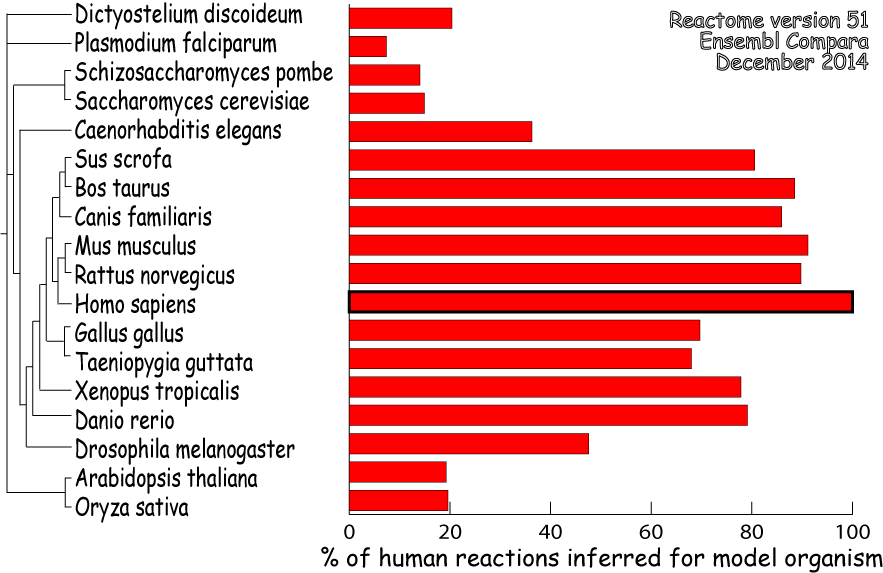
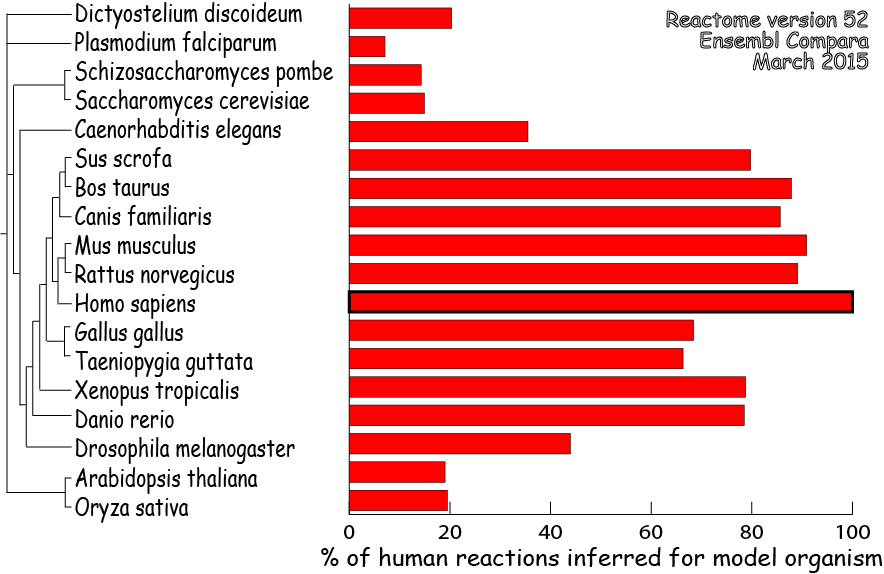
release 52 stats

diff --git a/scripts/release/website_files_update/stats.html b/scripts/release/website_files_update/stats.html
@@ -7,7 +7,7 @@
 
     <body>
 	<!--#include virtual="/cgi-bin/navigation_bar" -->
-	<h1 class="frontpage">Reactome Statistics (Version 51)</h1>
+	<h1 class="frontpage">Reactome Statistics (Version 52)</h1>
 	    
 	<!-- Start of the stats table  -->
 	<table border="0" width="90%" cellpadding="0" cellspacing="0" class="classbrowser">
@@ -23,152 +23,152 @@
 		    
 		    <tr height="18" class="own">
 			<td height="25" class="own">D. discoideum</td>
-			<td class="own" align="center">1640</td>
-			<td class="own" align="center">1302</td>
-			<td class="own" align="center">1423</td>
-			<td class="own" align="center">902</td>
+			<td class="own" align="center">1668</td>
+			<td class="own" align="center">1387</td>
+			<td class="own" align="center">1435</td>
+			<td class="own" align="center">826</td>
 		    </tr>
 		    
 		    <tr height="18" class="own">
 			<td height="25" class="own">P. falciparum</td>
-			<td class="own" align="center">605</td>
-			<td class="own" align="center">506</td>
-			<td class="own" align="center">516</td>
-			<td class="own" align="center">527</td>
+			<td class="own" align="center">622</td>
+			<td class="own" align="center">514</td>
+			<td class="own" align="center">500</td>
+			<td class="own" align="center">447</td>
 		    </tr>
 		    
 		    <tr height="18" class="own">
 			<td height="25" class="own">S. pombe</td>
-			<td class="own" align="center">1118</td>
-			<td class="own" align="center">950</td>
-			<td class="own" align="center">986</td>
-			<td class="own" align="center">750</td>
+			<td class="own" align="center">1149</td>
+			<td class="own" align="center">1039</td>
+			<td class="own" align="center">1016</td>
+			<td class="own" align="center">678</td>
 		    </tr>
 		    
 		    <tr height="18" class="own">
 			<td height="25" class="own">S. cerevisiae</td>
-			<td class="own" align="center">1245</td>
-			<td class="own" align="center">956</td>
-			<td class="own" align="center">1083</td>
-			<td class="own" align="center">766</td>
+			<td class="own" align="center">1271</td>
+			<td class="own" align="center">1039</td>
+			<td class="own" align="center">1092</td>
+			<td class="own" align="center">689</td>
 		    </tr>
 		    
 		    <tr height="18" class="own">
 			<td height="25" class="own">C. elegans</td>
-			<td class="own" align="center">3698</td>
-			<td class="own" align="center">2536</td>
-			<td class="own" align="center">2533</td>
-			<td class="own" align="center">1156</td>
+			<td class="own" align="center">3943</td>
+			<td class="own" align="center">2572</td>
+			<td class="own" align="center">2510</td>
+			<td class="own" align="center">1044</td>
 		    </tr>
 		    
 		    <tr height="18" class="own">
 			<td height="25" class="own">S. scrofa</td>
-			<td class="own" align="center">8224</td>
-			<td class="own" align="center">5820</td>
-			<td class="own" align="center">5623</td>
-			<td class="own" align="center">1506</td>
+			<td class="own" align="center">8521</td>
+			<td class="own" align="center">5958</td>
+			<td class="own" align="center">5642</td>
+			<td class="own" align="center">1389</td>
 		    </tr>
 		    
 		    <tr height="18" class="own">
 			<td height="25" class="own">B. taurus</td>
-			<td class="own" align="center">7845</td>
-			<td class="own" align="center">6401</td>
-			<td class="own" align="center">6204</td>
-			<td class="own" align="center">1537</td>
+			<td class="own" align="center">8000</td>
+			<td class="own" align="center">6565</td>
+			<td class="own" align="center">6240</td>
+			<td class="own" align="center">1421</td>
 		    </tr>
 		    
 		    <tr height="18" class="own">
 			<td height="25" class="own">C. familiaris</td>
-			<td class="own" align="center">8128</td>
-			<td class="own" align="center">6217</td>
-			<td class="own" align="center">6002</td>
-			<td class="own" align="center">1525</td>
+			<td class="own" align="center">8394</td>
+			<td class="own" align="center">6411</td>
+			<td class="own" align="center">6059</td>
+			<td class="own" align="center">1411</td>
 		    </tr>
 		    
 		    <tr height="18" class="own">
 			<td height="25" class="own">M. musculus</td>
-			<td class="own" align="center">8770</td>
-			<td class="own" align="center">6835</td>
-			<td class="own" align="center">6567</td>
-			<td class="own" align="center">1563</td>
+			<td class="own" align="center">8891</td>
+			<td class="own" align="center">7030</td>
+			<td class="own" align="center">6639</td>
+			<td class="own" align="center">1451</td>
 		    </tr>
 		    
 		    <tr height="18" class="own">
 			<td height="25" class="own">R. norvegicus</td>
-			<td class="own" align="center">8333</td>
-			<td class="own" align="center">6558</td>
-			<td class="own" align="center">6331</td>
-			<td class="own" align="center">1539</td>
+			<td class="own" align="center">8832</td>
+			<td class="own" align="center">6702</td>
+			<td class="own" align="center">6364</td>
+			<td class="own" align="center">1423</td>
 		    </tr>
 		    
 		    <tr height="18" class="own">
 			<td height="25" class="own">*H. sapiens</td>
-			<td class="own" align="center">7757</td>
-			<td class="own" align="center">7320</td>
-			<td class="own" align="center">7686</td>
-			<td class="own" align="center">1669</td>
+			<td class="own" align="center">7951</td>
+			<td class="own" align="center">7895</td>
+			<td class="own" align="center">8169</td>
+			<td class="own" align="center">1762</td>
 		    </tr>
 		    
 		    <tr height="18" class="own">
 			<td height="25" class="own">G. gallus</td>
-			<td class="own" align="center">5736</td>
-			<td class="own" align="center">5509</td>
-			<td class="own" align="center">5195</td>
-			<td class="own" align="center">1559</td>
+			<td class="own" align="center">5835</td>
+			<td class="own" align="center">5580</td>
+			<td class="own" align="center">5172</td>
+			<td class="own" align="center">1442</td>
 		    </tr>
 		    
 		    <tr height="18" class="own">
 			<td height="25" class="own">T. guttata</td>
-			<td class="own" align="center">5626</td>
-			<td class="own" align="center">4965</td>
-			<td class="own" align="center">4741</td>
-			<td class="own" align="center">1466</td>
+			<td class="own" align="center">5846</td>
+			<td class="own" align="center">5016</td>
+			<td class="own" align="center">4685</td>
+			<td class="own" align="center">1347</td>
 		    </tr>
 		    
 		    <tr height="18" class="own">
 			<td height="25" class="own">X. tropicalis</td>
-			<td class="own" align="center">7431</td>
-			<td class="own" align="center">5616</td>
-			<td class="own" align="center">5429</td>
-			<td class="own" align="center">1496</td>
+			<td class="own" align="center">7869</td>
+			<td class="own" align="center">5826</td>
+			<td class="own" align="center">5566</td>
+			<td class="own" align="center">1387</td>
 		    </tr>
 		    
 		    <tr height="18" class="own">
 			<td height="25" class="own">D. rerio</td>
-			<td class="own" align="center">11425</td>
-			<td class="own" align="center">5715</td>
-			<td class="own" align="center">5523</td>
-			<td class="own" align="center">1501</td>
+			<td class="own" align="center">11720</td>
+			<td class="own" align="center">5817</td>
+			<td class="own" align="center">5547</td>
+			<td class="own" align="center">1386</td>
 		    </tr>
 		    
 		    <tr height="18" class="own">
 			<td height="25" class="own">D. melanogaster</td>
-			<td class="own" align="center">7075</td>
-			<td class="own" align="center">3331</td>
-			<td class="own" align="center">3328</td>
-			<td class="own" align="center">1300</td>
+			<td class="own" align="center">6973</td>
+			<td class="own" align="center">3131</td>
+			<td class="own" align="center">3114</td>
+			<td class="own" align="center">1148</td>
 		    </tr>
 		    
 		    <tr height="18" class="own">
 			<td height="25" class="own">A. thaliana</td>
-			<td class="own" align="center">4241</td>
-			<td class="own" align="center">1209</td>
-			<td class="own" align="center">1345</td>
-			<td class="own" align="center">845</td>
+			<td class="own" align="center">4056</td>
+			<td class="own" align="center">1278</td>
+			<td class="own" align="center">1342</td>
+			<td class="own" align="center">764</td>
 		    </tr>
 		    
 		    <tr height="18" class="own">
 			<td height="25" class="own">O. sativa</td>
-			<td class="own" align="center">4933</td>
-			<td class="own" align="center">1231</td>
-			<td class="own" align="center">1368</td>
-			<td class="own" align="center">854</td>
+			<td class="own" align="center">4999</td>
+			<td class="own" align="center">1291</td>
+			<td class="own" align="center">1375</td>
+			<td class="own" align="center">774</td>
 		    </tr>
 		    
 		    <tr height="18" class="own">
 			<td height="25" class="own">M. tuberculosis</td>
 			<td class="own" align="center">13</td>
-			<td class="own" align="center">50</td>
+			<td class="own" align="center">58</td>
 			<td class="own" align="center">40</td>
 			<td class="own" align="center">12</td>
 		    </tr>
@@ -182,7 +182,7 @@
 
 	<div style="font-size:9pt;text-align:left;color:black;padding-top:10px;width=40%">
 	    *Reactome annotates to protein isoforms when this information is available.<br />
-	    The total number of curated human proteins including isoforms is 7894
+	    The total number of curated human proteins including isoforms is 8093
 	</div>
 
 	<!--#include virtual="/cgi-bin/footer" -->
